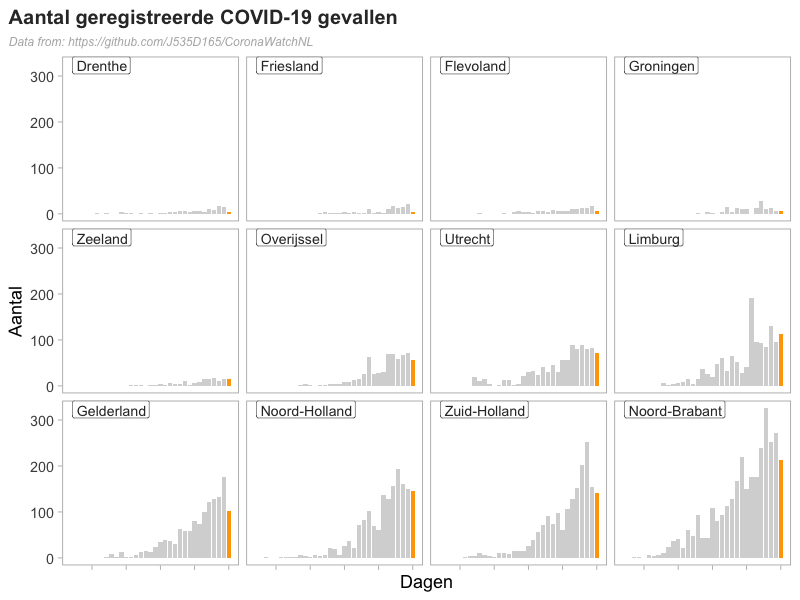
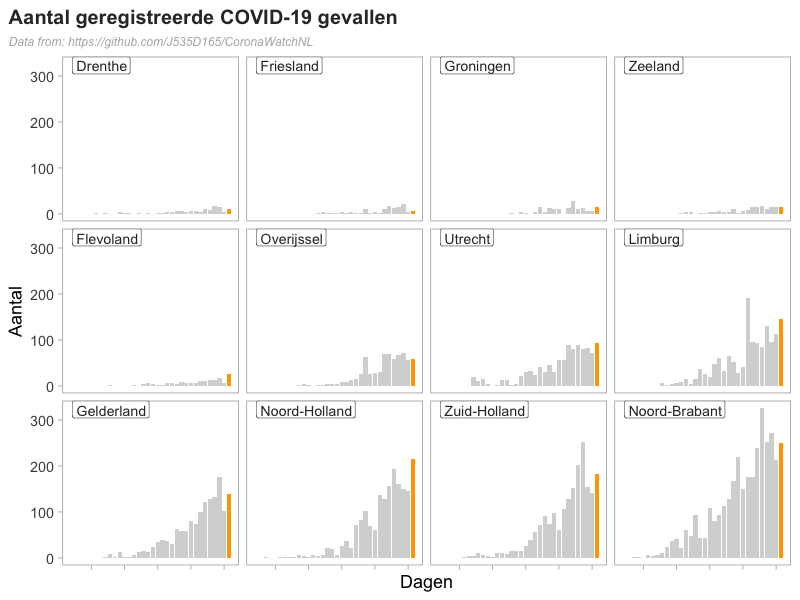
Updated data

diff --git a/COVID-19_NL/README.md b/COVID-19_NL/README.md
@@ -19,7 +19,7 @@ install.packages("tidyverse", "ggrepel", "gganimate","lubridate", "gifski")
 
 
 
-## Output generated with the script (March 27th, 2020)
+## Output generated with the script (data up to March 31st, 2020)
 
 
 
